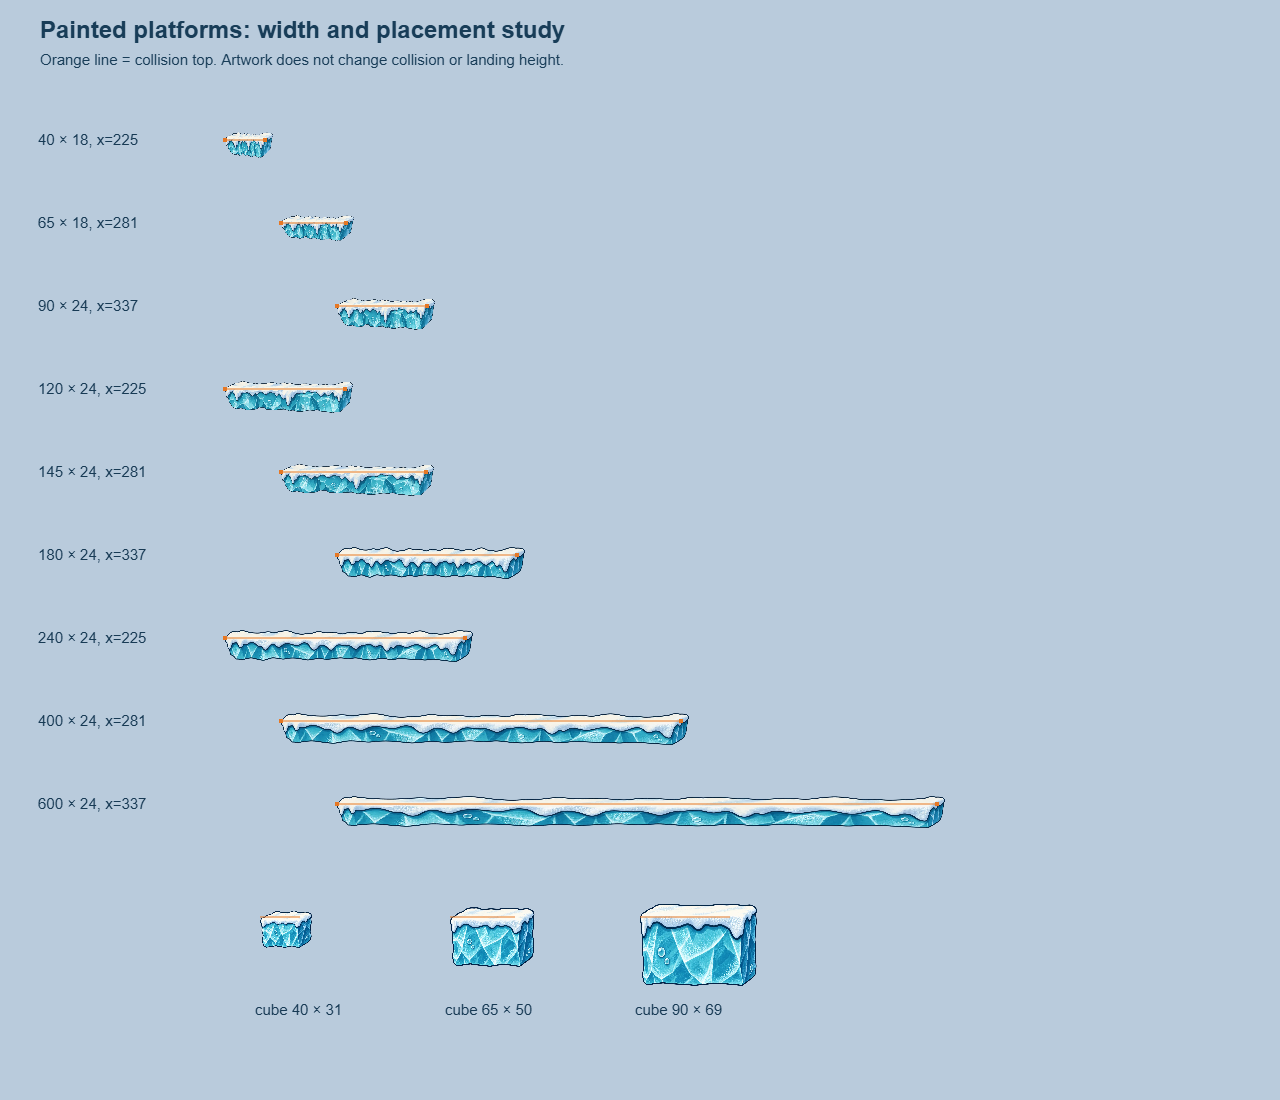
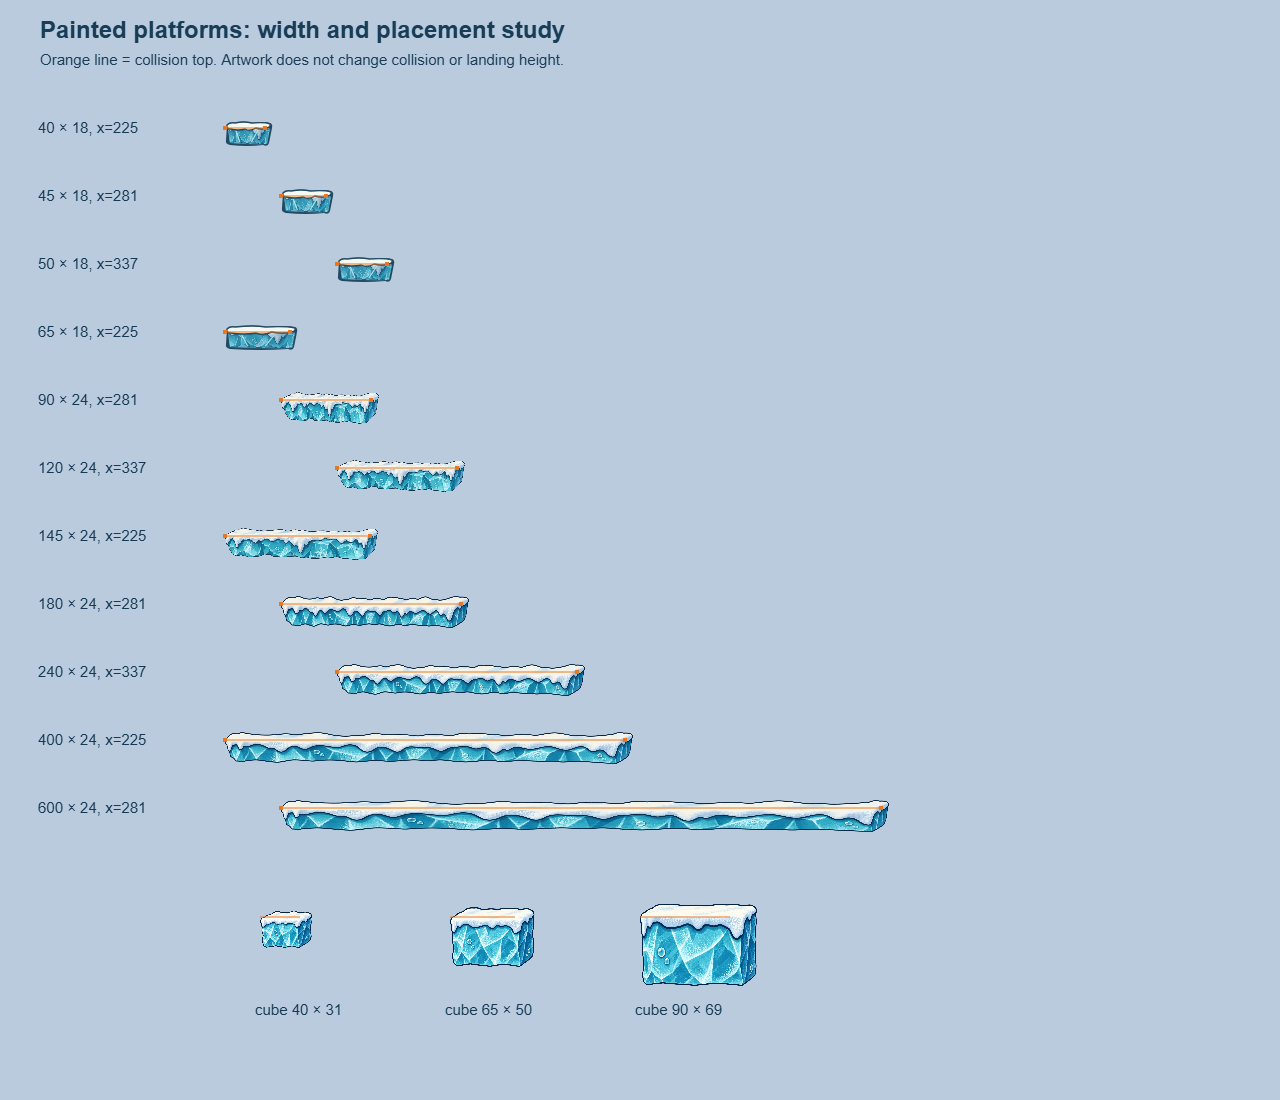
fix: give tiny winter steps continuous painted outlines

diff --git a/src/engine/arenas/packs/winterLakePaintedPlatforms.ts b/src/engine/arenas/packs/winterLakePaintedPlatforms.ts
@@ -37,6 +37,96 @@ function drawShelf(ctx: Ctx2D, image: CanvasImageSource, platform: Platform, isG
     x + width - end, y, end, height);
 }
 
+// The illustrated source contains more detail than a 40–50px step can show.
+// At that size its ink is subpixel and three-slice seams become visible. Keep
+// the same snow/ice palette but draw a few broad connected shapes at 1:1 scale.
+function drawTinyShelf(ctx: Ctx2D, image: CanvasImageSource, platform: Platform): void {
+  const x = platform.x;
+  const y = platform.y - CAP_DEPTH / 2;
+  const w = platform.width + skewPx();
+  const bottom = platform.y + platform.height;
+
+  ctx.beginPath();
+  ctx.moveTo(x + 2, y + 5);
+  ctx.quadraticCurveTo(x + 3, y + 2, x + 9, y + 3);
+  ctx.quadraticCurveTo(x + w * .38, y, x + w * .58, y + 3);
+  ctx.quadraticCurveTo(x + w * .85, y + 1, x + w - 3, y + 3);
+  ctx.quadraticCurveTo(x + w, y + 4, x + w - 1, y + 8);
+  ctx.lineTo(x + w - 4, bottom - 3);
+  ctx.quadraticCurveTo(x + w - 5, bottom + 1, x + w - 10, bottom - 1);
+  ctx.quadraticCurveTo(x + w * .48, bottom + 1, x + 5, bottom - 1);
+  ctx.quadraticCurveTo(x, bottom - 2, x + 1, bottom - 6);
+  ctx.closePath();
+  ctx.fillStyle = '#244963';
+  ctx.fill();
+
+  ctx.fillStyle = '#65afc8';
+  ctx.beginPath();
+  ctx.moveTo(x + 3, y + 9);
+  ctx.lineTo(x + w - 3, y + 8);
+  ctx.lineTo(x + w - 6, bottom - 2);
+  ctx.quadraticCurveTo(x + w * .54, bottom - 1, x + 5, bottom - 3);
+  ctx.closePath();
+  ctx.fill();
+
+  ctx.fillStyle = '#397d9f';
+  ctx.beginPath();
+  ctx.moveTo(x + w * .22, y + 9);
+  ctx.lineTo(x + w * .42, y + 10);
+  ctx.lineTo(x + w * .58, bottom - 3);
+  ctx.lineTo(x + w * .31, bottom - 2);
+  ctx.closePath();
+  ctx.fill();
+  ctx.beginPath();
+  ctx.moveTo(x + w * .69, y + 9);
+  ctx.lineTo(x + w * .85, y + 8);
+  ctx.lineTo(x + w * .79, bottom - 2);
+  ctx.lineTo(x + w * .55, bottom - 2);
+  ctx.closePath();
+  ctx.fill();
+
+  // Sample a single broad facet area from the painted source. Its brushwork
+  // provides material variation without shrinking the entire 2112px shelf to
+  // a handful of screen pixels.
+  ctx.save();
+  ctx.beginPath();
+  ctx.moveTo(x + 3, y + 9);
+  ctx.lineTo(x + w - 3, y + 8);
+  ctx.lineTo(x + w - 6, bottom - 2);
+  ctx.quadraticCurveTo(x + w * .54, bottom - 1, x + 5, bottom - 3);
+  ctx.closePath();
+  ctx.clip();
+  ctx.globalAlpha = .64;
+  ctx.drawImage(image, 455, 314, 840, 265, x + 3, y + 8, w - 6, bottom - y - 10);
+  ctx.restore();
+
+  ctx.strokeStyle = '#b8e6ea';
+  ctx.lineWidth = 1.1;
+  ctx.beginPath();
+  ctx.moveTo(x + w * .23, y + 11);
+  ctx.lineTo(x + w * .31, bottom - 4);
+  ctx.moveTo(x + w * .69, y + 10);
+  ctx.lineTo(x + w * .55, bottom - 4);
+  ctx.stroke();
+
+  ctx.fillStyle = '#f6f8f2';
+  ctx.beginPath();
+  ctx.moveTo(x + 2, y + 5);
+  ctx.quadraticCurveTo(x + 5, y + 2, x + 10, y + 3);
+  ctx.quadraticCurveTo(x + w * .39, y + 1, x + w * .56, y + 3);
+  ctx.quadraticCurveTo(x + w * .83, y + 2, x + w - 3, y + 4);
+  ctx.quadraticCurveTo(x + w - 2, y + 7, x + w - 6, y + 8);
+  ctx.quadraticCurveTo(x + w * .79, y + 10, x + w * .64, y + 8);
+  ctx.quadraticCurveTo(x + w * .52, y + 12, x + w * .42, y + 9);
+  ctx.quadraticCurveTo(x + w * .25, y + 11, x + 6, y + 9);
+  ctx.quadraticCurveTo(x + 1, y + 9, x + 2, y + 5);
+  ctx.closePath();
+  ctx.fill();
+  ctx.strokeStyle = '#244963';
+  ctx.lineWidth = 1.4;
+  ctx.stroke();
+}
+
 function drawCube(ctx: Ctx2D, image: CanvasImageSource, platform: Platform): void {
   const source = PAINTED_PLATFORM_SOURCES.cube;
   const depth = platform.width * .3;
@@ -77,7 +167,8 @@ export function drawPaintedWinterPlatform(
       platform.width + skewPx() + (isGround ? 40 : 0), platform.y + platform.height - y);
     ctx.clip();
   }
-  drawShelf(ctx, image, platform, isGround, kind);
+  if (platform.width < 80 && kind === 'shelf') drawTinyShelf(ctx, image, platform);
+  else drawShelf(ctx, image, platform, isGround, kind);
   ctx.restore();
   return true;
 }

diff --git a/src/engine/arenas/packs/__tests__/winterLakePaintedPlatforms.test.ts b/src/engine/arenas/packs/__tests__/winterLakePaintedPlatforms.test.ts
@@ -5,10 +5,12 @@ import { drawPaintedWinterPlatform, paintedPlatformKind } from '../winterLakePai
 
 function recorder() {
   const drawImage = vi.fn();
+  const stroke = vi.fn();
   const ctx = {
     drawImage, save: vi.fn(), restore: vi.fn(), beginPath: vi.fn(), rect: vi.fn(), clip: vi.fn(),
+    moveTo: vi.fn(), lineTo: vi.fn(), quadraticCurveTo: vi.fn(), closePath: vi.fn(), fill: vi.fn(), stroke,
   } as unknown as Ctx2D;
-  return { ctx, drawImage };
+  return { ctx, drawImage, stroke };
 }
 
 const images = {
@@ -23,7 +25,7 @@ describe('painted Winter Lake platforms', () => {
     expect(paintedPlatformKind({ x: 0, y: 100, width: 220, height: 24 }, false)).toBe('shelf');
     expect(paintedPlatformKind({ x: 0, y: 100, width: 145, height: 24, style: 'snowBridge' }, false)).toBe('bridge');
   });
-  it.each([40, 65, 90, 120, 145, 180, 240, 400, 600])('covers a moved %ipx shelf without moving its landing plane', width => {
+  it.each([90, 120, 145, 180, 240, 400, 600])('covers a moved %ipx shelf without moving its landing plane', width => {
     const platform: Platform = { x: 93, y: 371, width, height: width < 80 ? 18 : 24, style: width >= 180 ? 'snowBridge' : undefined };
     const { ctx, drawImage } = recorder();
     expect(drawPaintedWinterPlatform(ctx, platform, false, false, images)).toBe(true);
@@ -34,6 +36,17 @@ describe('painted Winter Lake platforms', () => {
     expect(calls[2][5] + calls[2][7]).toBeCloseTo(platform.x + width + skewPx());
     expect(calls.reduce((sum, call) => sum + call[7], 0)).toBeCloseTo(width + skewPx());
     expect(calls.every(call => call[7] > 0 && call[8] > 0)).toBe(true);
+  });
+
+  it.each([40, 50, 65])('renders a %ipx step with one painted sample and continuous ink paths', width => {
+    const platform: Platform = { x: 93, y: 371, width, height: 18 };
+    const { ctx, drawImage, stroke } = recorder();
+    expect(drawPaintedWinterPlatform(ctx, platform, false, false, images)).toBe(true);
+    expect(drawImage).toHaveBeenCalledTimes(1);
+    expect(stroke).toHaveBeenCalledTimes(2);
+    const call = drawImage.mock.calls[0];
+    expect(call[5]).toBeGreaterThan(platform.x);
+    expect(call[5] + call[7]).toBeLessThan(platform.x + width + skewPx());
   });
 
   it('overscans the ground while keeping the collision geometry untouched', () => {

diff --git a/docs/mockups/winter-platforms/sizing.ts b/docs/mockups/winter-platforms/sizing.ts
@@ -15,12 +15,12 @@ ctx.fillText('Painted platforms: width and placement study', 40, 38);
 ctx.font = '15px sans-serif';
 ctx.fillText('Orange line = collision top. Artwork does not change collision or landing height.', 40, 65);
 
-const widths = [40, 65, 90, 120, 145, 180, 240, 400, 600];
+const widths = [40, 45, 50, 65, 90, 120, 145, 180, 240, 400, 600];
 for (let i = 0; i < widths.length; i++) {
   const width = widths[i];
   const platform: Platform = {
     x: 225 + (i % 3) * 56,
-    y: 140 + i * 83,
+    y: 128 + i * 68,
     width,
     height: width < 80 ? 18 : 24,
     style: width >= 180 ? 'snowBridge' : undefined,

diff --git a/docs/mockups/winter-platforms/README.md b/docs/mockups/winter-platforms/README.md
@@ -12,6 +12,8 @@ The painted look uses three optimized transparent WebP assets in the Winter Lake
 
 The [night capture](painted-scalable-night.png) checks the same composition under the arena tint. The size study covers 40–600 px shelves at varied x positions and 40/65/90 px cubes. Orange lines mark the unchanged collision tops. The first resizing attempt repeated a center tile; that created a mechanical row of snow teeth and facets along the ground, so the final painter stretches one continuous interior and keeps the ends at stable screen widths. The two broad shelves carry a `snowBridge` style tag, so changing their width will not suddenly switch artwork at an arbitrary threshold. Large future size changes still need a match-scale review. The current three WebPs total about 521 KB, compared with about 3.5 MB for their source PNGs.
 
+**Tiny-step correction:** Scaling the full shelf painting to 40–65 px made its ink disappear in places and left visible slice joins. Those steps now use a continuous small-scale ink silhouette with broad ice facets, plus one cropped painted texture sample inside the face. The larger shelves and cubes retain their illustrated art. The updated [size study](painted-scaling-study.png) and [day scene](painted-scalable-day.png) show this hybrid treatment at native scale; the next visual decision should use those scene images, since a clean isolated step can still look too flat beside painted platforms.
+
 ## Earlier painted platform prototype
 
 The procedural cartoon follow-ups below were judged too simple beside the generated reference. This prototype draws **actual transparent illustrated assets** in the production renderer: a narrow [long shelf](painted-shelf-long.png), the earlier [wide shelf](glacial-ceramic-art-direction.png) for medium platforms, and a matching [ice block](painted-ice-block.png). The fixture selects a source by platform width, maps its painted bounds onto each existing platform rectangle, and redraws the body in the foreground cover pass. It also overscans the visual ground past both viewport edges.

diff --git a/.claude/skills/visual-style/SKILL.md b/.claude/skills/visual-style/SKILL.md
@@ -91,6 +91,8 @@ When platform art is painted, keep the geometry in the arena pack as the only au
 
 Draw the shelf once in the static background and draw only its front-face portion after players, clipped at the existing cap-front boundary. Bake that foreground overlay into the renderer's shared overlay canvas. Preload and decode the art in every canvas-owning realm before the first scene render, but retain the procedural fallback if an image fails. Check moved platforms and a width range covering tiny steps, ordinary shelves, bridges, ground, and blocks. Overlay collision-top guides in a separate review image; never bake those guides into game art. Inspect both worker modes, noon, and night before changing the layout.
 
+At roughly 40–65 px, a detailed 2000 px shelf painting becomes a poor source for the entire object: fine outlines disappear, antialiasing exposes gaps at slice joins, and the face turns noisy. Use a dedicated small-scale silhouette with one connected dark outline, a few broad ice facets, and at most a cropped patch of painted texture inside it. Review that tiny treatment next to the larger painted shelves in the full arena; a sharp but flat vector tile can be just as distracting as a blurred bitmap. Keep the cap's landing cue and foreground-cover boundary aligned with the same collision rectangle.
+
 The three bush styles coexist in Meadow. Their current placement and drawing live in [`meadowSelectedArt.ts`](../../../src/engine/arenas/packs/meadowSelectedArt.ts), while the trees, secondary foliage, and small wildlife live in [`meadowStorybookDetails.ts`](../../../src/engine/arenas/packs/meadowStorybookDetails.ts), with placement in [`meadow.ts`](../../../src/engine/arenas/packs/meadow.ts). Background bushes sit behind players; opaque foreground bushes draw over them. Platform front-face overlays also draw after players, preserving the sense of moving behind the terrain. Art changes must preserve the collision plane and these layer relationships.
 
 ## Characters: a soft toy with readable acting
